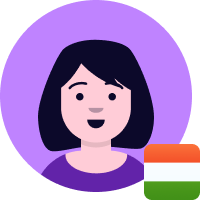
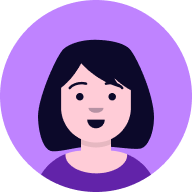
Add AvatarWithFlag component and update Discover page to include flags for friends

diff --git a/src/app/discover/page.tsx b/src/app/discover/page.tsx
@@ -6,6 +6,7 @@ import { ChevronLeft, ChevronRight, Search } from 'lucide-react'
 import Link from "next/link"
 import appData from "@/data/app-data.json"
 import { useState } from "react"
+import { AvatarWithFlag } from "@/components/avatar-with-flag"
 
 export default function Discover() {
   const quizzes = appData.quizzes.slice(0, 3)
@@ -72,10 +73,10 @@ export default function Discover() {
         <div className="space-y-3">
           {filteredQuizzes.map((quiz) => (
             <QuizCard
-          key={quiz.id}
-          title={quiz.title}
-          subtitle={`${quiz.category} • ${quiz.questionCount} Questions`}
-          icon={quiz.icon}
+              key={quiz.id}
+              title={quiz.title}
+              subtitle={`${quiz.category} • ${quiz.questionCount} Questions`}
+              icon={quiz.icon}
             />
           ))}
         </div>
@@ -88,10 +89,11 @@ export default function Discover() {
         <div className="space-y-4">
           {filteredFriends.map((friend) => (
             <FriendCard
-          key={friend.id}
-          name={friend.name}
-          points={`${friend.points} points`}
-          image={friend.image}
+              key={friend.id}
+              name={friend.name}
+              points={`${friend.points} points`}
+              image={friend.image}
+              flag={friend.flag}
             />
           ))}
         </div>
@@ -137,12 +139,13 @@ export default function Discover() {
           <h2 className="text-white font-medium mb-4">Friends</h2>
           <div className="space-y-4">
             {filteredFriends.map((friend) => (
-          <FriendCard
-            key={friend.id}
-            name={friend.name}
-            points={`${friend.points} points`}
-            image={friend.image}
-          />
+              <FriendCard
+                key={friend.id}
+                name={friend.name}
+                points={`${friend.points} points`}
+                image={friend.image}
+                flag={friend.flag}
+              />
             ))}
           </div>
         </section>
@@ -190,13 +193,15 @@ function CategoryCard({ icon, category }: { icon: string; category: string }) {
   )
 }
 
-function FriendCard({ name, points, image }: { name: string; points: string; image: string }) {
+function FriendCard({ name, points, image, flag }: { name: string; points: string; image: string; flag: string }) {
   return (
     <div className="flex items-center gap-3">
-      <Avatar className="w-10 h-10">
-        <AvatarImage src={image} alt={name} />
-        <AvatarFallback>{name[0]}</AvatarFallback>
-      </Avatar>
+      <AvatarWithFlag
+        src={image}
+        alt={name}
+        fallback={name[0]}
+        flag={flag}
+      />
       <div>
         <h3 className="text-white font-medium">{name}</h3>
         <p className="text-white/60 text-sm">{points}</p>

diff --git a/src/components/avatar-with-flag.tsx b/src/components/avatar-with-flag.tsx
@@ -1,0 +1,27 @@
+import { Avatar, AvatarFallback, AvatarImage } from "@/components/ui/avatar"
+
+interface AvatarWithFlagProps {
+  src: string
+  alt: string
+  fallback: string
+  flag: string
+}
+
+export function AvatarWithFlag({ src, alt, fallback, flag }: AvatarWithFlagProps) {
+    console.log("src", src);
+    console.log("alt", alt);
+    console.log("fallback", fallback);
+    console.log("flag", flag);
+  return (
+    <div className="relative">
+      <Avatar>
+        <AvatarImage src={src} alt={alt} />
+        <AvatarFallback>{fallback}</AvatarFallback>
+      </Avatar>
+      <div className="absolute bottom-0 right-0 rounded-full overflow-hidden w-4 h-4 border-2 border-white">
+        <img src={flag} alt="flag" className="w-full h-full object-cover" />
+      </div>
+    </div>
+  )
+}
+
